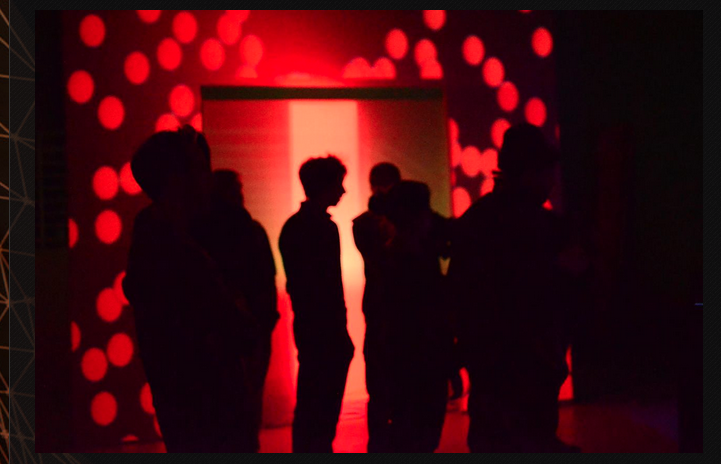
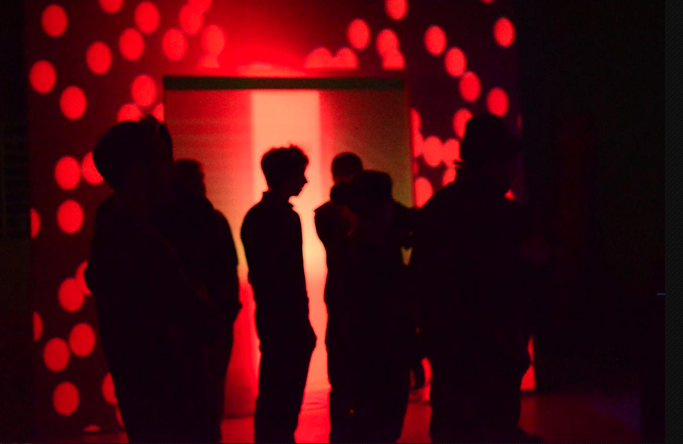
text placeholder

diff --git a/css/main.css b/css/main.css
@@ -95,6 +95,15 @@ body {
     background: #333333;
 }
 
+#infoBar {
+    position: absolute;
+    width: 100%;
+    height: auto;
+    min-height: 10%;
+    background-color: rgba(255,255,255,100);
+    top: 20%;
+    left: 0%;
+}
 
 
 

diff --git a/js/luxloop.js b/js/luxloop.js
@@ -16,5 +16,6 @@ $(document).ready(function() {
 	    , "/img/014.png"
 	    , "/img/015.jpg"
 	    , "/img/016.jpg"
+	    , "/img/018.jpg"
 	  ], {duration: 5500, fade: 1000});
 });
